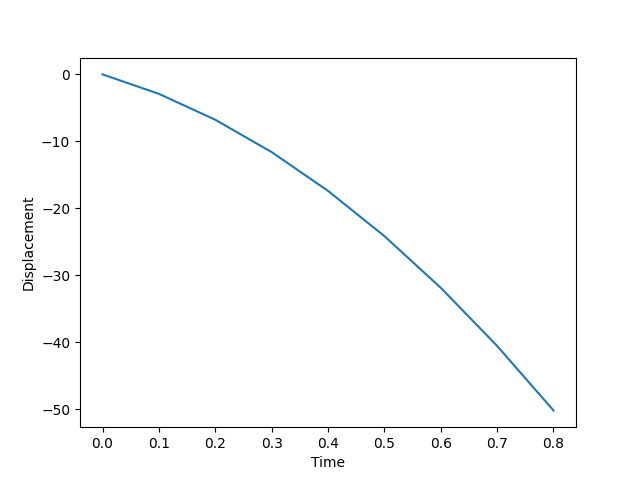
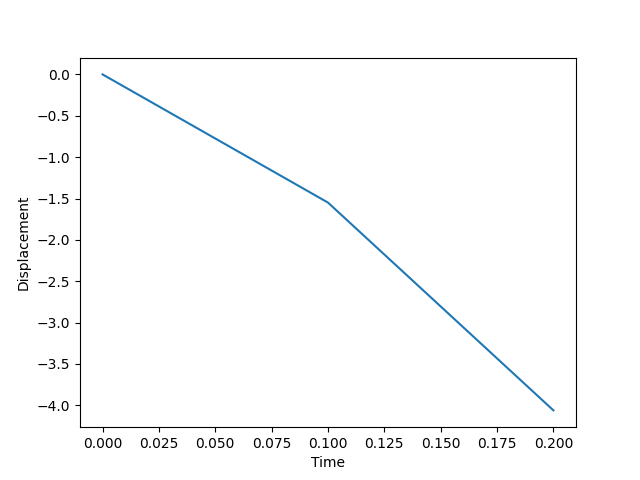
implemented correct angle calcs in radians

diff --git a/projectile_simulator.py b/projectile_simulator.py
@@ -39,6 +39,7 @@ class Calculations:
         return math.sqrt(v_velocity**2+h_velocity**2)
 
     def trajectory(self,angle,v_velocity,h_velocity):
+        angle = math.radians(angle)
         mag_velocity = self.magnitude(v_velocity,h_velocity)
         R = mag_velocity**2*math.sin(2*angle)/float(acceleration)
         h_max = mag_velocity**2*(math.sin(angle))**2/(2*float(acceleration))
